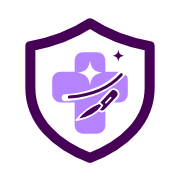
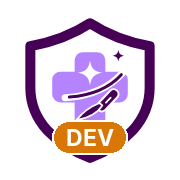
Add files via upload

Changed region(s): [[0.2778, 0.6667, 0.7222, 0.8611]]

diff --git a/sw.js b/sw.js
@@ -1,6 +1,16 @@
 /* Phone app service worker: keeps only this small wrapper's own files for when there is no internet.
    It never touches Google addresses (the ledger itself is always loaded fresh from Google). */
-var CACHE = 'pfbeacon-wrapper-v2';
+var APP_ID = '';   // written by tools/make-phone-kit.py: one per phone app ('' = development app at the top of the Claims site)
+var CACHE = 'pfbeacon-wrapper-v3' + (APP_ID ? '-' + APP_ID : '');
+// Only this app's own old caches are removed; other phone apps on the same github.io address keep theirs.
+function ownCache(k) {
+  var m = /^pfbeacon-wrapper-v\d+(?:-([a-z0-9-]+))?$/.exec(k);
+  if (m) return (m[1] || '') === APP_ID;
+  return !APP_ID && /^(claims|scl)-wrapper/.test(k);   // older names, used only by the first (top-level) app
+}
+// Requests for another app's folder (e.g. live1/ inside this one) are left alone.
+var SCOPE = new URL('./', self.location.href).pathname;
+function mine(u) { var rel = u.pathname.slice(SCOPE.length); return u.pathname.indexOf(SCOPE) === 0 && (!/\//.test(rel) || /^(icons|img)\//.test(rel)); }
 var FILES = ['./', './index.html', './config.js', './offline.html', './install.html', './qrcode.js', './manifest.webmanifest',
   './icons/icon-192.png', './icons/icon-512.png', './icons/icon-maskable-512.png', './icons/apple-touch-icon.png', './icons/favicon-32.png',
   './img/logo-wordmark.svg', './img/banner-800.webp', './img/banner-800.jpg'];
@@ -8,11 +18,11 @@ self.addEventListener('install', function (e) {
   e.waitUntil(caches.open(CACHE).then(function (c) { return c.addAll(FILES); }).then(function () { return self.skipWaiting(); }));
 });
 self.addEventListener('activate', function (e) {
-  e.waitUntil(caches.keys().then(function (ks) { return Promise.all(ks.filter(function (k) { return k !== CACHE; }).map(function (k) { return caches.delete(k); })); }).then(function () { return self.clients.claim(); }));
+  e.waitUntil(caches.keys().then(function (ks) { return Promise.all(ks.filter(function (k) { return k !== CACHE && ownCache(k); }).map(function (k) { return caches.delete(k); })); }).then(function () { return self.clients.claim(); }));
 });
 self.addEventListener('fetch', function (e) {
   var u = new URL(e.request.url);
-  if (u.origin !== self.location.origin || e.request.method !== 'GET') return;   // Google and everything else: not ours, not cached
+  if (u.origin !== self.location.origin || e.request.method !== 'GET' || !mine(u)) return;   // Google and everything else: not ours, not cached
   e.respondWith(fetch(e.request).then(function (r) {   // network first
     if (r && r.ok) { var copy = r.clone(); caches.open(CACHE).then(function (c) { c.put(e.request, copy); }); }
     return r;

diff --git a/index.html b/index.html
@@ -7,18 +7,18 @@
 <meta name="apple-mobile-web-app-capable" content="yes">
 <meta name="mobile-web-app-capable" content="yes">
 <meta name="apple-mobile-web-app-status-bar-style" content="black-translucent">
-<meta name="apple-mobile-web-app-title" content="PFBeacon">
+<meta name="apple-mobile-web-app-title" content="PFDev">
 <meta name="referrer" content="no-referrer">
 <link rel="manifest" href="manifest.webmanifest">
 <link rel="icon" href="icons/favicon-32.png">
 <meta name="description" content="PFBeacon · Surgeon PF Tracker: claims, quotes and consultations.">
 <meta property="og:title" content="PFBeacon · Surgeon PF Tracker">
 <meta property="og:description" content="Every PF claimed. Every peso collected.">
-<meta property="og:image" content="img/og-share-1200x630.jpg">
+<meta property="og:image" content="https://sebsc888.github.io/Claims/img/og-share-1200x630.jpg">
 <meta property="og:image:width" content="1200"><meta property="og:image:height" content="630">
 <meta name="twitter:card" content="summary_large_image">
 <link rel="apple-touch-icon" href="icons/apple-touch-icon.png">
-<title>PFBeacon</title>
+<title>PFDev</title>
 <style>
   html,body{margin:0;height:100%;background:#460056;overflow:hidden;font-family:system-ui,-apple-system,"Segoe UI",Roboto,sans-serif}
   #app{position:fixed;inset:0;padding:env(safe-area-inset-top) env(safe-area-inset-right) env(safe-area-inset-bottom) env(safe-area-inset-left);background:#fff;box-sizing:border-box}
@@ -45,7 +45,10 @@
 (function () {
   var C = window.SCL_CONFIG || {}, EXEC = String(C.EXEC_URL || '');
   var APP_URL = EXEC + (EXEC.indexOf('?') < 0 ? '?' : '&') + 'app=1';   // never put the sign-in in the address
-  var KEY = 'scl_token', UKEY = 'scl_user';
+  // Each phone app keeps its own saved sign-in (APP_ID in config.js), so two apps on one phone never wipe each other's.
+  // The development app at the top of the Claims site has no APP_ID and keeps the old names (its phones stay signed in).
+  var AID = /^[a-z0-9-]{1,20}$/.test(String(C.APP_ID || '')) ? ':' + C.APP_ID : '';
+  var KEY = 'scl_token' + AID, UKEY = 'scl_user' + AID;
   var app = document.getElementById('app'), wait = document.getElementById('wait'), off = document.getElementById('off');
   document.getElementById('alt').href = APP_URL;
   var timer = null, loaded = false;

diff --git a/config.js b/config.js
@@ -1,9 +1,11 @@
-/* Phone app settings. Change only the three lines in quotes. */
+/* Phone app settings. Made by tools/make-phone-kit.py; change only the lines in quotes. */
 window.SCL_CONFIG = {
   // Your ledger link from Apps Script: Deploy → Manage deployments → Web app URL (ends in /exec)
   EXEC_URL: 'https://script.google.com/macros/s/AKfycbzSwflPOXEfy1G4dhQcMpsRooKzSpn3twNj11kFQ1QYQxAOSRR-LYDF9Pu8R7uhiD29/exec',
   // Shown on the install page and poster
-  CLINIC_NAME: 'isstar',
+  CLINIC_NAME: 'isstar DEV',
   // The address of the install page once it is on GitHub Pages, e.g. https://yourname.github.io/claims/install.html
-  INSTALL_URL: 'https://sebsc888.github.io/Claims/install.html'
+  INSTALL_URL: 'https://sebsc888.github.io/Claims/install.html',
+  // Short name for this phone app (letters, numbers, -). Keeps its sign-in apart from other apps on the same github.io address.
+  APP_ID: ''
 };

diff --git a/offline.html b/offline.html
@@ -1,6 +1,6 @@
 <!doctype html><html lang="en"><head><meta charset="utf-8">
 <meta name="viewport" content="width=device-width, initial-scale=1, viewport-fit=cover">
-<meta name="theme-color" content="#460056"><title>PFBeacon · No internet</title>
+<meta name="theme-color" content="#460056"><title>PFDev · No internet</title>
 <style>html,body{margin:0;height:100%;background:#460056;color:#fff;font-family:system-ui,-apple-system,"Segoe UI",Roboto,sans-serif}
 button{all:unset;box-sizing:border-box;display:flex;flex-direction:column;align-items:center;justify-content:center;gap:18px;width:100%;height:100%;text-align:center;padding:24px;cursor:pointer}
 .big{font-size:34px;font-weight:700;line-height:1.25}.small{font-size:22px;opacity:.9}.logo{width:96px;height:96px;border-radius:24px;display:block}</style></head>

diff --git a/install.html b/install.html
@@ -9,11 +9,11 @@
 <meta name="description" content="PFBeacon · Surgeon PF Tracker: claims, quotes and consultations.">
 <meta property="og:title" content="PFBeacon · Surgeon PF Tracker">
 <meta property="og:description" content="Every PF claimed. Every peso collected.">
-<meta property="og:image" content="img/og-share-1200x630.jpg">
+<meta property="og:image" content="https://sebsc888.github.io/Claims/img/og-share-1200x630.jpg">
 <meta property="og:image:width" content="1200"><meta property="og:image:height" content="630">
 <meta name="twitter:card" content="summary_large_image">
 <link rel="apple-touch-icon" href="icons/apple-touch-icon.png">
-<title>Install PFBeacon</title>
+<title>Install PFDev</title>
 <style>
   :root{--g:#460056;--ink:#2B1036;--soft:#F5EEFD}
   *{box-sizing:border-box}

diff --git a/install-poster.html b/install-poster.html
@@ -3,7 +3,7 @@
 <head>
 <meta charset="utf-8">
 <meta name="viewport" content="width=device-width, initial-scale=1">
-<title>PFBeacon app poster</title>
+<title>PFDev app poster</title>
 <style>
   @page{size:A4;margin:12mm}
   *{box-sizing:border-box}
